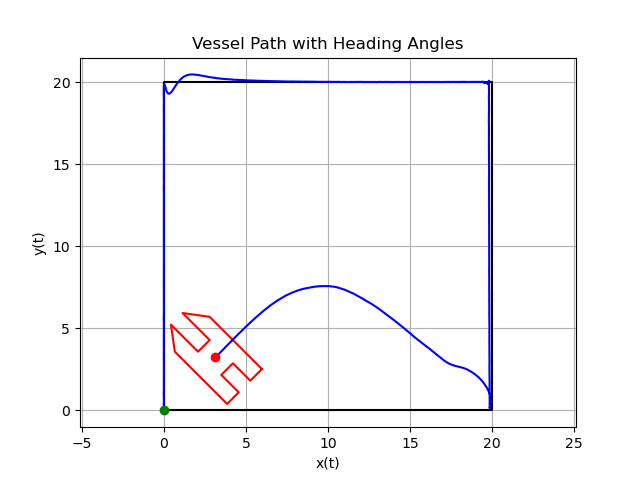
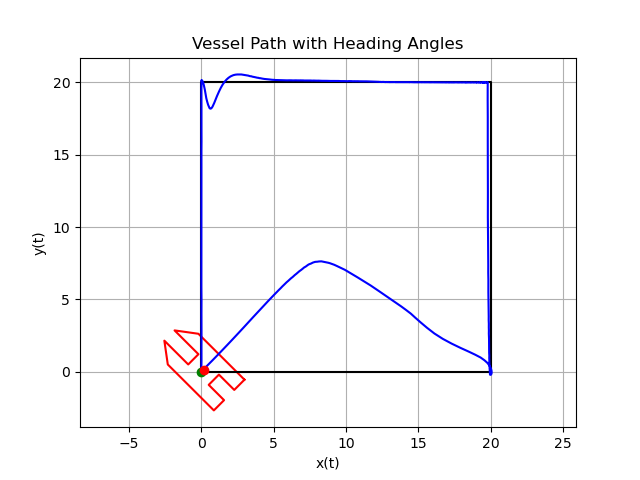
Updated psudo inv method to stay within n bounds by scaling. Updated MIMO PID. Updated plots to show functionallity.

diff --git a/src/Control/pseudo_inverse_allocation.cpp b/src/Control/pseudo_inverse_allocation.cpp
@@ -44,7 +44,7 @@ std::vector<double> pseudo_inverse_allocation(
     // 7) Solve F1 = k1 * n1 * |n1|  ⇒  |n1| = sqrt(F1/k1), then re‐apply sign:
     double n1 = s1 * std::sqrt(std::abs(F1) / k1);
 
-    // Repeat for thruster 2:
+    // 8) Repeat for thruster 2:
     double F2    = std::hypot(u2x, u2y);
     double alpha2 = std::atan2(u2y, u2x);
     double s2 = +1.0;
@@ -53,6 +53,18 @@ std::vector<double> pseudo_inverse_allocation(
     double k2 = (s2 > 0 ? k_pos : k_neg);
     double n2 = s2 * std::sqrt(std::abs(F2) / k2);
 
+    // 9) Scale the thrusts such that |n| <= 1:
+    double max_n = std::max({std::abs(n1), std::abs(n2), 1.0});
+    if (max_n > 1.0) {
+        // pull everything back proportionally
+        std::vector<double> tau_scaled = tau_XYN;
+        tau_scaled[0] /= max_n;
+        tau_scaled[1] /= max_n;
+        tau_scaled[2] /= max_n;
+      
+        // Recompute
+        return pseudo_inverse_allocation(tau_scaled, B, k_pos, k_neg);
+      }
 
     // 8) Return in the order {n1, alpha1, n2, alpha2}
     return { n1, alpha1, n2, alpha2 };

diff --git a/src/Control/PID_MIMO_motion_control.cpp b/src/Control/PID_MIMO_motion_control.cpp
@@ -17,14 +17,14 @@ MIMOPIDController::MIMOPIDController(){
 
     // Tunable params
     Omega_b = Eigen::MatrixXd::Zero(3, 3);
-    Omega_b(0, 0) = 0.06;
-    Omega_b(1, 1) = 0.06;
-    Omega_b(2, 2) = 1;
+    Omega_b(0, 0) = 0.15;
+    Omega_b(1, 1) = 0.2;
+    Omega_b(2, 2) = 1.2;
 
     Z = Eigen::MatrixXd::Zero(3, 3);
-    Z(0, 0) = 1;
-    Z(1, 1) = 1;
-    Z(2, 2) = 1;
+    Z(0, 0) = 1.0;
+    Z(1, 1) = 0.3;
+    Z(2, 2) = 1.0;
 
     // Natural Frequencies
     Omega_n = Eigen::MatrixXd::Zero(3,3);
@@ -75,7 +75,7 @@ std::vector<double> MIMOPIDController::update(double h, double xn_d, double yn_d
     Eigen::MatrixXd Ki = (Kp*Omega_n)/10;
 
     //Low pass filtered derivative term
-    double alpha = 0.2; //More filtering 0 < alpha < 1 No filtering.
+    double alpha = 0.1; //More filtering 0 < alpha < 1 No filtering.
     nu_der = alpha * ((nu_error - nu_prev_error) / h) + (1 - alpha) * nu_der;
 
     //Anti-windup clamping
